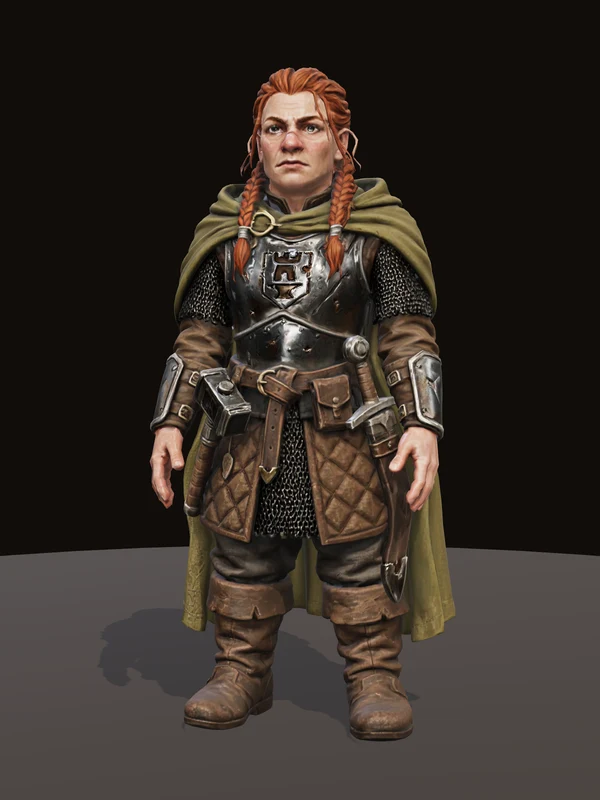
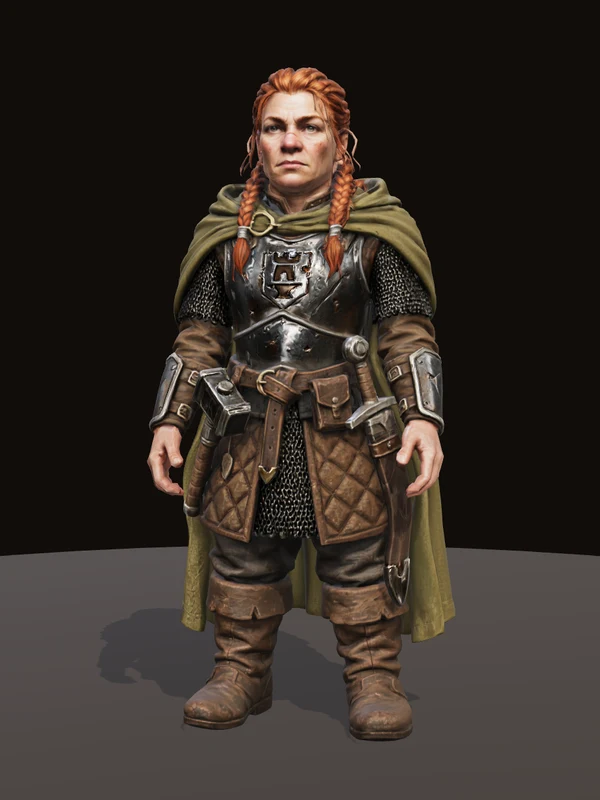
Asset library: the party's faces painted from close-ups of their own sheets
Branka, Garlan, Lyra, Milos and Poppen, each on the model they already had: free. The rig finds a sheet under the name the first figures' joints files give it.

diff --git a/asset-library/pipeline/rig.py b/asset-library/pipeline/rig.py
@@ -512,7 +512,8 @@ if (json.load(open(brief_file)) if os.path.exists(brief_file) else {}).get("face
         bpy.data.images.remove(loaded)
         return a.reshape(h, w, 4)[::-1], w, h  # top row first, as the joints are counted
 
-    S, sw, sh = picture(spec["front"])
+    # The first figures' joints files name the sheet as it was once called, with the figure's name before it.
+    S, sw, sh = picture(spec["front"] if os.path.exists(os.path.join(beside, spec["front"])) else "apose-front.png")
     # The head painted close and fitted to the sheet (face.py), if there is one: the sheet's head, several times the
     # size. Inside its rectangle the head is painted from it, and the face's own relief is smoothed under the paint.
     close = json.load(open(os.path.join(beside, "face.json"))) if os.path.exists(os.path.join(beside, "apose-face.png")) else None

diff --git a/asset-library/README.md b/asset-library/README.md
@@ -222,7 +222,8 @@ Then the face is taken from the sheet. A generator makes its figure from the she
 - `"sheet": "front"` paints the front view alone, upright, 1024 by 1536. A face gets half as many pixels again as on the sheet of two views. The back view was only ever a reference: the model is made from the front.
 - The sheet is lined up with the head by the top of the figure and the middle of its crown. On Wollandora it landed true. If eyes come out doubled, the head is off the sheet: look at `faceFromSheet` in `rig.json`.
 - It fades out where the head turns away from the sheet, so cheeks seen from the side keep the generator's paint, and the join can show as a faint patch.
-- Thalbern has had it too, on the model he already had, for nothing: his face had been waxy, with pale eyes. Branka, Garlan, Lyra, Milos, Poppen and the owlbear have not. `"face": "close"` in the brief and `--redo=face` does it, and the owlbear's would want a beast's face found, which the face model may not do.
+- Every figure of a person has had it, on the model each already had, for nothing: Thalbern first, then Branka, Garlan, Lyra, Milos and Poppen, 2026-11-15. All had been waxy, with pale or muddy eyes. The owlbear has not: it would want a beast's face found, which the face model may not do.
+- A scene with more than three figures stands them at the middle level, whose texture is 1024. The face is on it too, but a quarter as sharp. The Gates' party of six is such a scene.
 
 `"face": "close"` goes further, and is what Wollandora has. The owner, of the sheet's face on the model: "could we make the face even better?" The sheet's face is 130 pixels across, and it showed.
 
